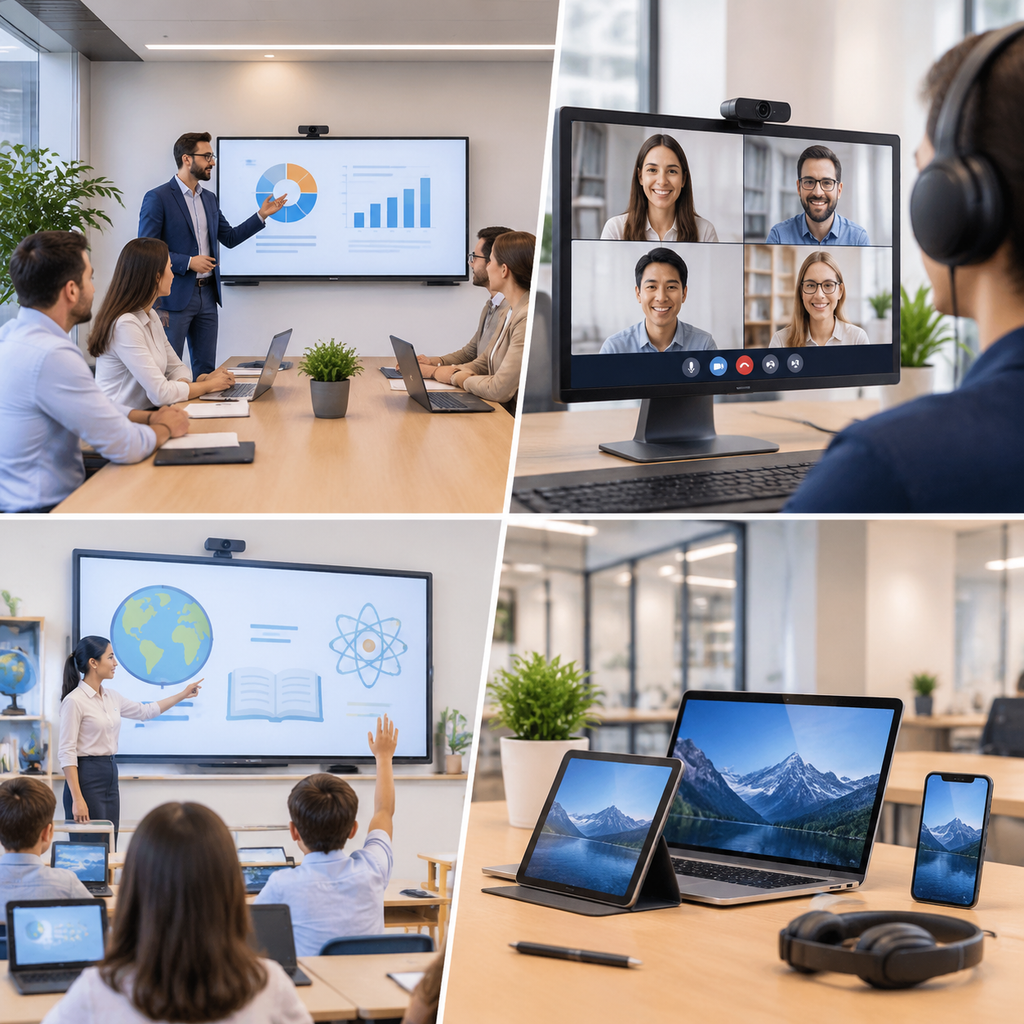
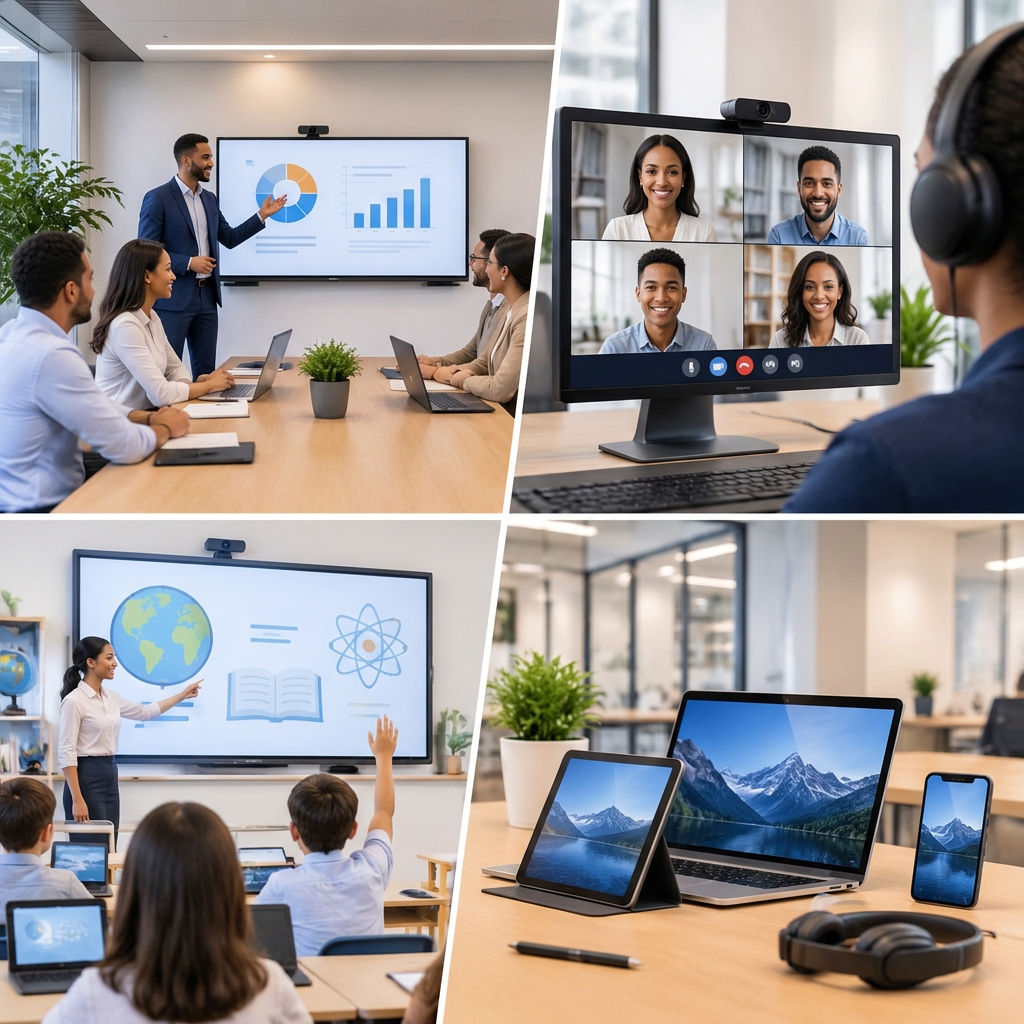
image

diff --git a/src/data/industries.js b/src/data/industries.js
@@ -1,8 +1,8 @@
-import { Landmark, Building2, Briefcase, Globe2, GraduationCap } from 'lucide-react';
+import { Globe } from 'lucide-react';
 
 export const industries = [
   {
-    icon: Landmark,
+    image: '/banking.svg',
     title: 'Banking & Financial Services',
     short: 'Secure, always-available infrastructure for transactions, branch connectivity, and compliance.',
     description:
@@ -16,7 +16,7 @@ export const industries = [
     ],
   },
   {
-    icon: Building2,
+    image: '/government.svg',
     title: 'Government & Public Institutions',
     short: 'Reliable infrastructure for digital services, records, and secure communications.',
     description:
@@ -30,7 +30,7 @@ export const industries = [
     ],
   },
   {
-    icon: Briefcase,
+    image: '/enterprise.svg',
     title: 'Private Sector & Enterprises',
     short: 'Scalable infrastructure to support growth, collaboration, and daily operations.',
     description:
@@ -44,7 +44,7 @@ export const industries = [
     ],
   },
   {
-    icon: Globe2,
+    icon: Globe,
     title: 'NGOs & Development Organizations',
     short: 'Dependable connectivity and power for program coordination and data sharing.',
     description:
@@ -58,7 +58,7 @@ export const industries = [
     ],
   },
   {
-    icon: GraduationCap,
+    image: '/education.svg',
     title: 'Educational Institutions',
     short: 'Reliable infrastructure for digital learning, campus connectivity, and smart classrooms.',
     description:

diff --git a/src/styles/industries.css b/src/styles/industries.css
@@ -15,16 +15,49 @@
   margin-bottom: 1.5rem;
 }
 
+.industry-card__icon {
+  display: flex;
+  align-items: center;
+  justify-content: center;
+  width: 120px;
+  height: 120px;
+  border-radius: 28px;
+  color: var(--color-white);
+  background: linear-gradient(135deg, var(--color-blue), var(--color-cyan));
+  box-shadow: 0 12px 28px rgba(23, 105, 255, 0.3);
+}
+
+.industry-card__image {
+  width: 120px;
+  height: 120px;
+  object-fit: contain;
+  filter: drop-shadow(0 12px 28px rgba(23, 105, 255, 0.3));
+}
+
+@media (max-width: 768px) {
+  .industry-card__icon,
+  .industry-card__image {
+    width: 80px;
+    height: 80px;
+  }
+}
+
 .industry-detail__icon {
   display: flex;
   align-items: center;
   justify-content: center;
-  width: 72px;
-  height: 72px;
-  border-radius: 18px;
+  width: 96px;
+  height: 96px;
+  border-radius: 24px;
   color: var(--color-white);
   background: linear-gradient(135deg, var(--color-blue), var(--color-cyan));
   box-shadow: 0 10px 22px rgba(23, 105, 255, 0.28);
+}
+
+.industry-detail__image {
+  width: 96px;
+  height: 96px;
+  object-fit: contain;
 }
 
 .industry-detail__content h2 {

diff --git a/src/components/IndustryCard.jsx b/src/components/IndustryCard.jsx
@@ -1,14 +1,24 @@
 import { Link } from 'react-router-dom';
-import { ArrowRight } from 'lucide-react';
+import { ArrowRight, Globe } from 'lucide-react';
 import ScrollReveal from './ScrollReveal';
 
-export default function IndustryCard({ icon: Icon, title, short, to, index = 0 }) {
+export default function IndustryCard({ image, icon: Icon, title, short, to, index = 0 }) {
   return (
     <ScrollReveal delay={(index % 2) * 100} className="industry-card__wrap">
       <Link to={to || '/industries'} className="card industry-card">
-        <span className="icon-chip industry-card__icon">
-          <Icon size={26} strokeWidth={1.9} />
-        </span>
+        {image ? (
+          <img
+            className="industry-card__image"
+            src={image}
+            alt={title}
+            loading="eager"
+            decoding="async"
+          />
+        ) : (
+          <span className="icon-chip industry-card__icon">
+            <Icon size={44} strokeWidth={2} />
+          </span>
+        )}
         <h3>{title}</h3>
         <p>{short}</p>
         <span className="industry-card__link">

diff --git a/src/components/IndustryDetail.jsx b/src/components/IndustryDetail.jsx
@@ -1,12 +1,22 @@
-import { Check } from 'lucide-react';
+import { Check, Globe } from 'lucide-react';
 import ScrollReveal from './ScrollReveal';
 
-export default function IndustryDetail({ icon: Icon, title, description, needs, index = 0 }) {
+export default function IndustryDetail({ image, icon: Icon, title, description, needs, index = 0 }) {
   return (
     <ScrollReveal delay={(index % 2) * 90}>
       <article className="card industry-detail">
         <div className="industry-detail__icon" aria-hidden="true">
-          <Icon size={34} strokeWidth={1.7} />
+          {image ? (
+            <img
+              className="industry-detail__image"
+              src={image}
+              alt={title}
+              loading="lazy"
+              decoding="async"
+            />
+          ) : (
+            <Icon size={34} strokeWidth={1.7} />
+          )}
         </div>
         <div className="industry-detail__content">
           <h2>{title}</h2>
